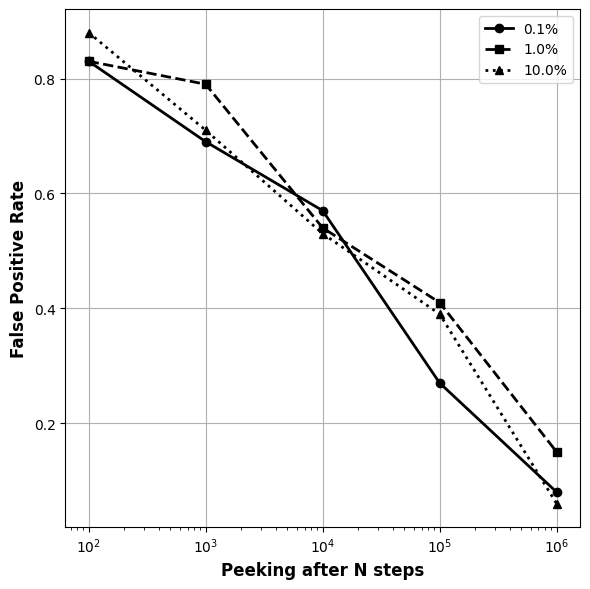
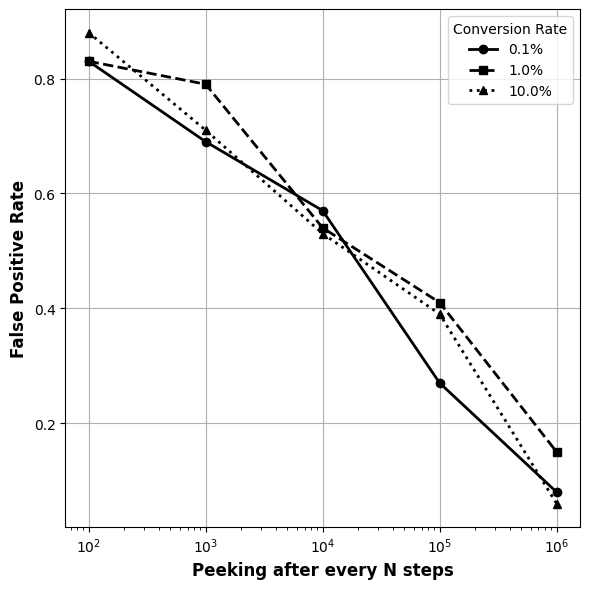
UPdate post

Changed region(s): [[0.7627, 0.0306, 0.9763, 0.1834], [0.3051, 0.9474, 0.7627, 1.0]]

diff --git a/_posts/2025-10-30-bayesian-ab-test-peeking.md b/_posts/2025-10-30-bayesian-ab-test-peeking.md
@@ -11,24 +11,24 @@ Over the last few months at RevenueCat I've been building a statistical framewor
 
 ## Simulation and results
 Picture the following scenario
-- Baseline and variant have the same conversion (ie, no difference between them).
-- Start with an uninformative prior ($\text{Beta}(1, 1)$). Generate observations and update your prior accordingly ([formulas here](https://www.evanmiller.org/Bayesian-ab-testing.html)).
-- After $N$ events, compute the posterior probability that one branch is better than the other (ie $P(B > A)$ or $P(A > B)$). If it exceeds $0.95$, declare a winner.
-- Keep track of false positives: since baseline and variant are the same declaring a winner is a false positive.
-- Repeat for different peek intervals $N$, from very frequent peeking to less frequent.
+- Baseline and variant have the same conversion rate $r$ (ie, no difference between them).
+- Generate events following a Bernoulli distribution with parameter $r$, and update your prior using Bayes theorem ([formulas here](https://www.evanmiller.org/Bayesian-ab-testing.html)), starting from an uninformative prior, eg $\text{Beta}(1, 1)$.
+- After every $N$ events, compute the posterior probability that one branch is better than the other (ie $P(B > A)$ or $P(A > B)$). If any of them exceeds $0.95$, declare a winner.
+- Since baseline and variant have the same conversion rate $r$ declaring a winner is a false positive.
+- Repeat for different peek intervals $N$ and conversion rates $r$.
 
-I ran the simulations for different conversion rates ($0.1\%$, $1\%$% and $10\%$) and the results are consistent. In the following plot, we see how the error rate increases as the $N$ decreases. 
+I ran the simulations for different conversion rates $r \in \left(0.1\%, 1\%, 10\%\right)$ and peeking intervals $N \in \left(10^2, 10^3, 10^4, 10^5, 10^6\right)$ and the results are consistent. In the following plot, we see how the error rate increases as the $N$ decreases. 
 
 
 {% include image.html path="/docs/bayesian-ab-test-peeking/miss_rate_vs_peeking.png" width="500" %}
 
 The plot show that as $N$ gets smaller, the error rate climbs. For example, if we peak after every $100$ observations the false positive rate increases to $80\%$. In other words, even when using a Bayesian approach, more frequent peeking increases the chance of calling a winner when there's none.
 
-**Bayesian posteriors remain interpretable under continuous monitoring, but a fixed posterior threshold does not control false positives when you peek and stop on success**
+The conclusion is then: *Bayesian posteriors remain interpretable under continuous monitoring, but a fixed posterior threshold does not control false positives when you peek and stop on success*
 
 ## What can you actually do with Bayesian AB testing?
 
-As we just saw, Bayesian AB testing is not immune to peeking. But then, what advantage does it have over frequentist methods? 
+As we just saw, Bayesian AB testing is not immune to peeking. The more you peek the higher the false positive rate. But then, what advantage does it have over frequentist methods? 
 
 The key advantage is that results are interpretable at any sample size. This means you can monitor continuously and interpret $P(B > A)$ as the posterior probability that $B$ is better at the time you look. That interpretation is valid without a fixed sample size. However, if you want to control a frequentist error rate while peeking, a fixed $95\%$ posterior threshold will not do it.
 
